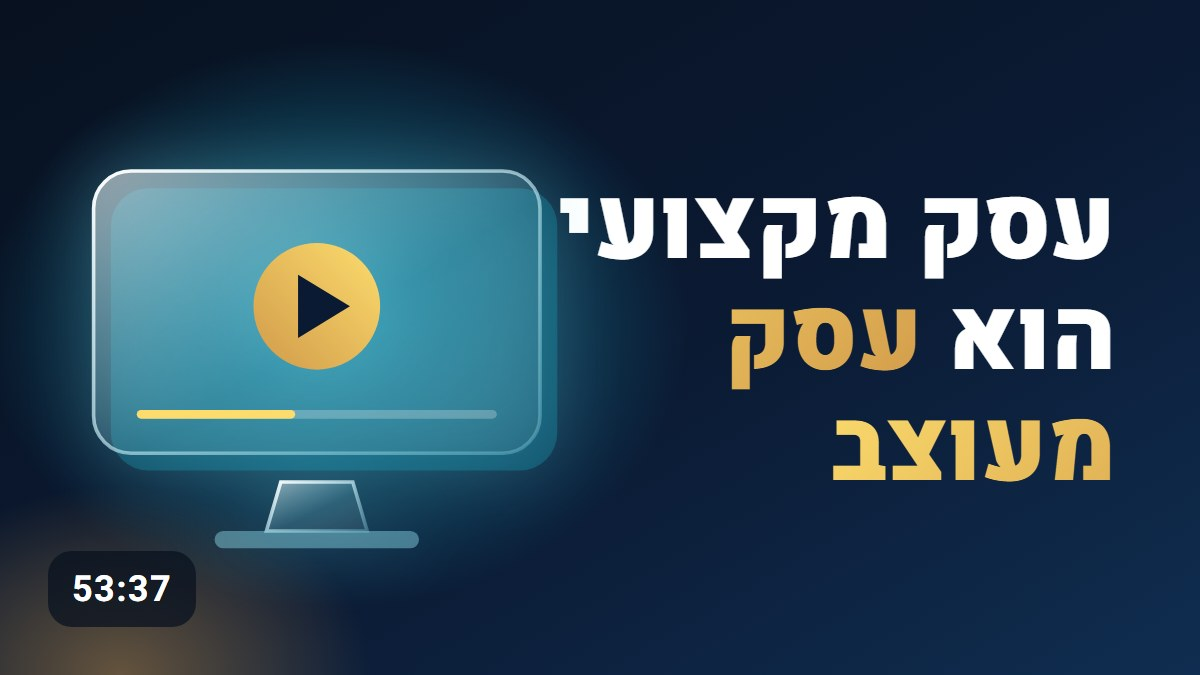
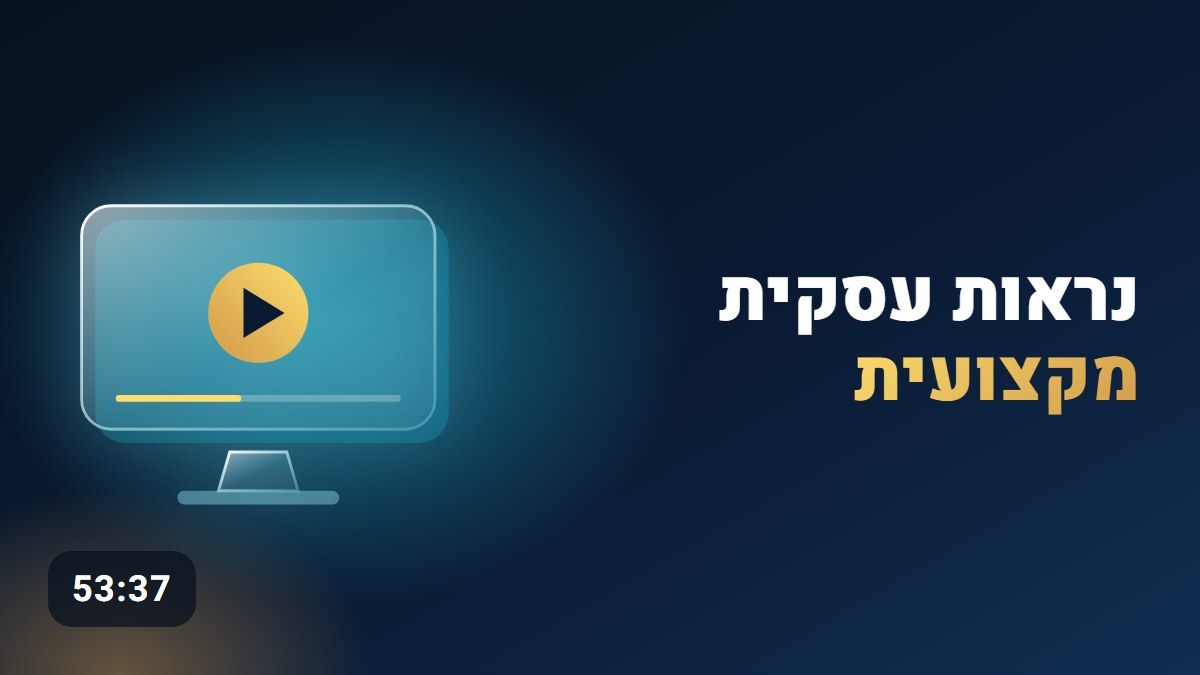
הרצאות לצפייה בחינם: שמות כמו בשקף הפתיחה, כריכות בגודל אחיד וכרטיסים מיושרים
- השמות והכריכות כמו בשקף הפתיחה של כל מצגת (נראות עסקית מקצועית, ליווי עסקי להצלחה בדרך שלך ועוד)
- כל כריכות ההרצאות באותו גודל כתב (ContentCover size="wide"), וקובצי הכריכה יוצאו מחדש
- הכרטיסים ב-subgrid: שמות והסברים באותו גובה בכל שורה
- צבעים: שם ו"הרצאה" בלבן, רק משפט המפתח בזהב ובסוף הכרטיס
- מרווח גדול יותר בין הכרטיסים

Changed region(s): [[0.0617, 0.2489, 0.9558, 0.84]]

diff --git a/src/data/lectures.ts b/src/data/lectures.ts
@@ -1,6 +1,8 @@
 // הרצאות והדרכות מהיוטיוב של נוגה, לצפייה בחינם (עמוד "מרכז הידע").
 // נוגה בחרה אותן (2026-11-07). הכותרות והמשך מהיוטיוב; המשפט הקצר מבוסס על התיאור שלה ביוטיוב,
-// בלי גוף ראשון (נוגה לא כותבת בגוף ראשון באתר). כותרות הכריכה (coverTitle) הן הצעות שלי.
+// בלי גוף ראשון (נוגה לא כותבת בגוף ראשון באתר).
+// השם (title) והכריכה (coverTitle) הם השם שמופיע בשקף הפתיחה של המצגת בתוך הסרטון (נוגה, 2026-11-08),
+// והכריכה מציגה את אותו שם בדיוק, רק עם עיצוב. כל הכריכות כאן באותו גודל כתב.
 // כריכה: ContentCover בסגנון האתר, במקום התמונה הממוזערת של יוטיוב. הסרטון נטען רק בלחיצה.
 import type { CoverMotif } from '../components/ContentCover.astro';
 
@@ -30,6 +32,7 @@ export const lectures: Lecture[] = [
     title: 'כנס עסקים במקסימום: האסטרטגיה שמתאימה לך',
     short: 'בלי לחפש עוד שיטה או "הדבר האחד שחסר": איך חוזרים להובלה, חושבים עסק נכון בתוך הרעש, ובוחרים אסטרטגיה שמתאימה לעסק, בדרך שלך.',
     duration: '36:38',
+    // TODO: השם מהשקף של ההרצאה בכנס עוד לא אומת (לא קריא בסרטון). לשאול את נוגה.
     coverTitle: 'האסטרטגיה|*שמתאימה לך*',
     motif: 'target',
   },
@@ -38,7 +41,7 @@ export const lectures: Lecture[] = [
     title: 'שיווק אורגני ברשתות החברתיות שממגנט לקוחות',
     short: 'הסתכלות אחרת על שיווק ברשתות: בחירה, אותנטיות, הובלה עסקית ונוכחות שמייצרת חיבור אמיתי עם לקוחות, במקום לרדוף אחרי שיטות.',
     duration: '77:42',
-    coverTitle: 'שיווק אורגני|*שממגנט*',
+    coverTitle: 'שיווק אורגני|ברשתות החברתיות|*שממגנט לקוחות*',
     motif: 'megaphone',
   },
   {
@@ -46,7 +49,7 @@ export const lectures: Lecture[] = [
     title: 'להיות עסק שקל להמליץ עליו',
     short: 'המלצות לא משאירים למזל: איך מעודדים הפניות מפה לאוזן, והופכים לעסק שקל להבין, לזכור ולהמליץ עליו, גם לאנשים וגם ל-AI.',
     duration: '66:28',
-    coverTitle: 'עסק שקל|*להמליץ עליו*',
+    coverTitle: 'להיות עסק|*שקל להמליץ עליו*',
     motif: 'chat',
     quote: 'זה לא התפקיד של הלקוח לזכור אותך.',
   },
@@ -55,15 +58,15 @@ export const lectures: Lecture[] = [
     title: 'ליווי עסקי להצלחה בדרך שלך',
     short: 'מה נכון לצפות מייעוץ עסקי: מה באחריות בעל העסק, מה באחריות היועץ, והרבה דוגמאות מהשטח לאתגרים של בעלי עסקים.',
     duration: '56:34',
-    coverTitle: 'מה לצפות|מ*ייעוץ עסקי*',
+    coverTitle: 'ליווי עסקי|*להצלחה בדרך שלך*',
     motif: 'compass',
   },
   {
     id: 'QANXfOW_s-Q',
-    title: 'עסק מקצועי הוא עסק מעוצב',
+    title: 'נראות עסקית מקצועית',
     short: 'למה עיצוב חשוב כל כך בעולם של הצפת מסרים, ואיך הופכים את העסק לזכיר: מתמונות לרשת ועד הצעות מחיר, פליירים ומצגות.',
     duration: '53:37',
-    coverTitle: 'עסק מקצועי|הוא *עסק מעוצב*',
+    coverTitle: 'נראות עסקית|*מקצועית*',
     motif: 'screen',
   },
 ];
